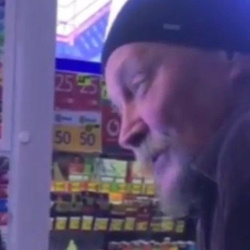
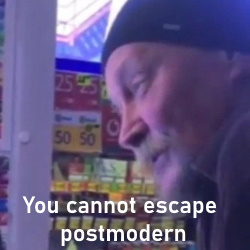
feat: improve functionality (Sun, Mar 12, 2023 17:02)

Changed region(s): [[0.084, 0.784, 0.868, 0.868], [0.224, 0.896, 0.756, 0.98]]

diff --git a/cssBayan/style.css b/cssBayan/style.css
@@ -1,7 +1,28 @@
+html {
+  font-size: 10px;
+  scroll-behavior: smooth;
+}
+
 * {
   margin: 0;
   padding: 0;
-  box-sizing: border-box;
+}
+
+body {
+  font-family: 'Poppins', sans-serif;
+  background-color: rgb(213, 242, 255);
+  width: 100%;
+  height: 100%;
+}
+
+body::-webkit-scrollbar {
+  display: none;
+}
+
+/* Hide scrollbar for IE, Edge and Firefox */
+body {
+  -ms-overflow-style: none;
+  scrollbar-width: none;
 }
 
 .accordion-wrapper {
@@ -9,18 +30,21 @@
   flex-direction: column;
 }
 
-body {
-  font-family: 'Poppins', sans-serif;
-  background-color: rgb(213, 242, 255);
+.container {
+  margin: 0 auto;
+  max-width: 69rem;
+  padding: 0 2rem;
 }
 
-header,
-main {
-  margin: auto;
+.header-wrapper {
+  display: flex;
+  justify-content: center;
+  padding-top: 1rem;
+  padding-bottom: 1rem;
 }
 
 h1 {
-  margin: 50px 0 20px 0;
+  font-size: 3.2rem;
 }
 
 .accordion-item {
@@ -28,19 +52,24 @@ h1 {
   flex-direction: column;
   align-items: center;
   list-style: none;
-  margin-bottom: 15px;
+  margin-bottom: 1.5rem;
   background-color: white;
-  padding: 8px;
-  border-radius: 5px;
+  padding: 1rem;
+  border-radius: 1rem;
+  -webkit-box-shadow: 0.8rem 0.8rem 1rem 0 rgba(125, 132, 255, 0.6);
+  -moz-box-shadow: 0.8rem 0.8rem 1rem 0 rgba(125, 132, 255, 0.6);
+  box-shadow: 0.8rem 0.8rem 1rem 0 rgba(125, 132, 255, 0.6);
 }
 
 .accordion-title {
   display: flex;
   align-items: center;
   justify-content: space-between;
-  min-width: 650px;
-  padding: 10px;
-  font-size: 20px;
+  width: 100%;
+  max-width: 65rem;
+  padding: 0.8rem;
+  font-size: 2rem;
+  line-height: 3rem;
   color: rgb(60, 106, 255);
   cursor: pointer;
   transition: color 0.5s;
@@ -52,6 +81,7 @@ h1 {
 
 .icon {
   transform: rotate(90deg);
+  transition: transform 0.5s;
 }
 
 input {
@@ -59,33 +89,36 @@ input {
 }
 
 .content {
-  /* display: flex;
-  justify-content: center; */
   width: 100%;
-  padding: 0 10px;
   max-height: 0;
   overflow: hidden;
-  transition: max-height 0.3s;
   cursor: pointer;
+  transition: max-height 0.3s;
 }
 
 .content img {
   display: block;
-  width: 0px;
-  margin: 0 auto 6px auto;
+  width: 0;
+  margin: 1rem auto;
   transition: width 0.3s;
 }
 
 .accordion-item:hover .accordion-title + .content,
 input:checked + .accordion-title + .content {
-  max-height: 400px;
+  max-height: 40rem;
 }
 
 input:checked + .accordion-title + .content img,
 .accordion-item:hover .content img {
-  width: 350px;
+  width: 35rem;
 }
 
+input:checked + .accordion-title .icon,
+.accordion-item:hover .icon {
+  transform: rotate(-90deg);
+}
+
+.accordion-item:hover .accordion-title + .content,
 input:checked + .accordion-title {
   color: black;
 }

diff --git a/cssBayan/index.html b/cssBayan/index.html
@@ -15,13 +15,15 @@
   </head>
   <body>
     <div class="accordion-wrapper">
-      <header><h1>CSS Bayan</h1></header>
+      <header>
+        <div class="header-wrapper container"><h1>CSS Bayan</h1></div>
+      </header>
       <main>
-        <ul class="accordion">
+        <ul class="accordion container">
           <li class="accordion-item">
             <input type="radio" name="accordion" id="sec1" checked />
             <label for="sec1" class="accordion-title"
-              >kek <span class="icon">></span></label
+              >Postmodern is inescapable<span class="icon">></span></label
             >
             <label for="sec1" class="content">
               <img src="assets/picture1.jpg" alt="pic1" />
@@ -30,7 +32,7 @@
           <li class="accordion-item">
             <input type="radio" name="accordion" id="sec2" />
             <label for="sec2" class="accordion-title"
-              >kek <span class="icon">></span></label
+              >Who doesn't tho?<span class="icon">></span></label
             >
             <label for="sec2" class="content">
               <img src="assets/picture2.jpg" alt="pic2" />
@@ -39,7 +41,7 @@
           <li class="accordion-item">
             <input type="radio" name="accordion" id="sec3" />
             <label for="sec3" class="accordion-title"
-              >kek <span class="icon">></span></label
+              >Wanna play some backgammon?<span class="icon">></span></label
             >
             <label for="sec3" class="content">
               <img src="assets/picture3.jpg" alt="pic3" />
@@ -48,7 +50,7 @@
           <li class="accordion-item">
             <input type="radio" name="accordion" id="sec4" />
             <label for="sec4" class="accordion-title"
-              >kek <span class="icon">></span></label
+              >True story<span class="icon">></span></label
             >
             <label for="sec4" class="content">
               <img src="assets/picture4.jpg" alt="pic4" />
@@ -57,7 +59,7 @@
           <li class="accordion-item">
             <input type="radio" name="accordion" id="sec5" />
             <label for="sec5" class="accordion-title"
-              >kek <span class="icon">></span></label
+              >4:20<span class="icon">></span></label
             >
             <label for="sec5" class="content">
               <img src="assets/picture5.png" alt="pic5" />
